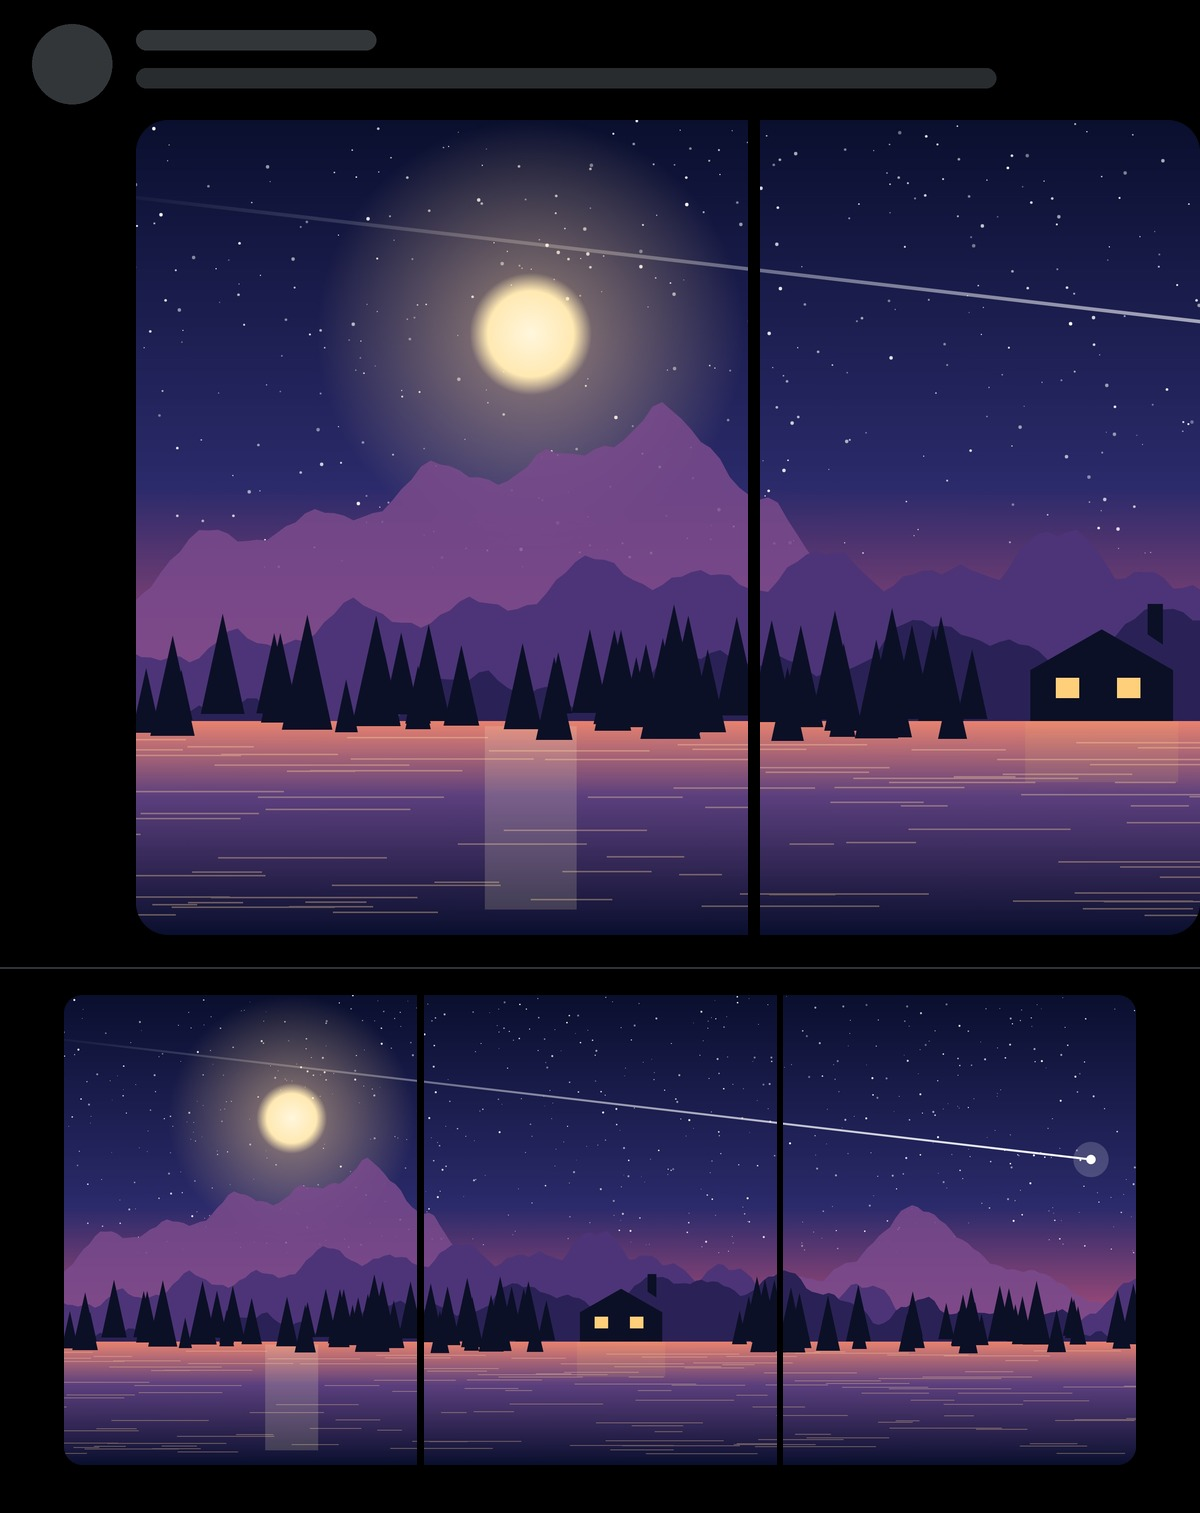
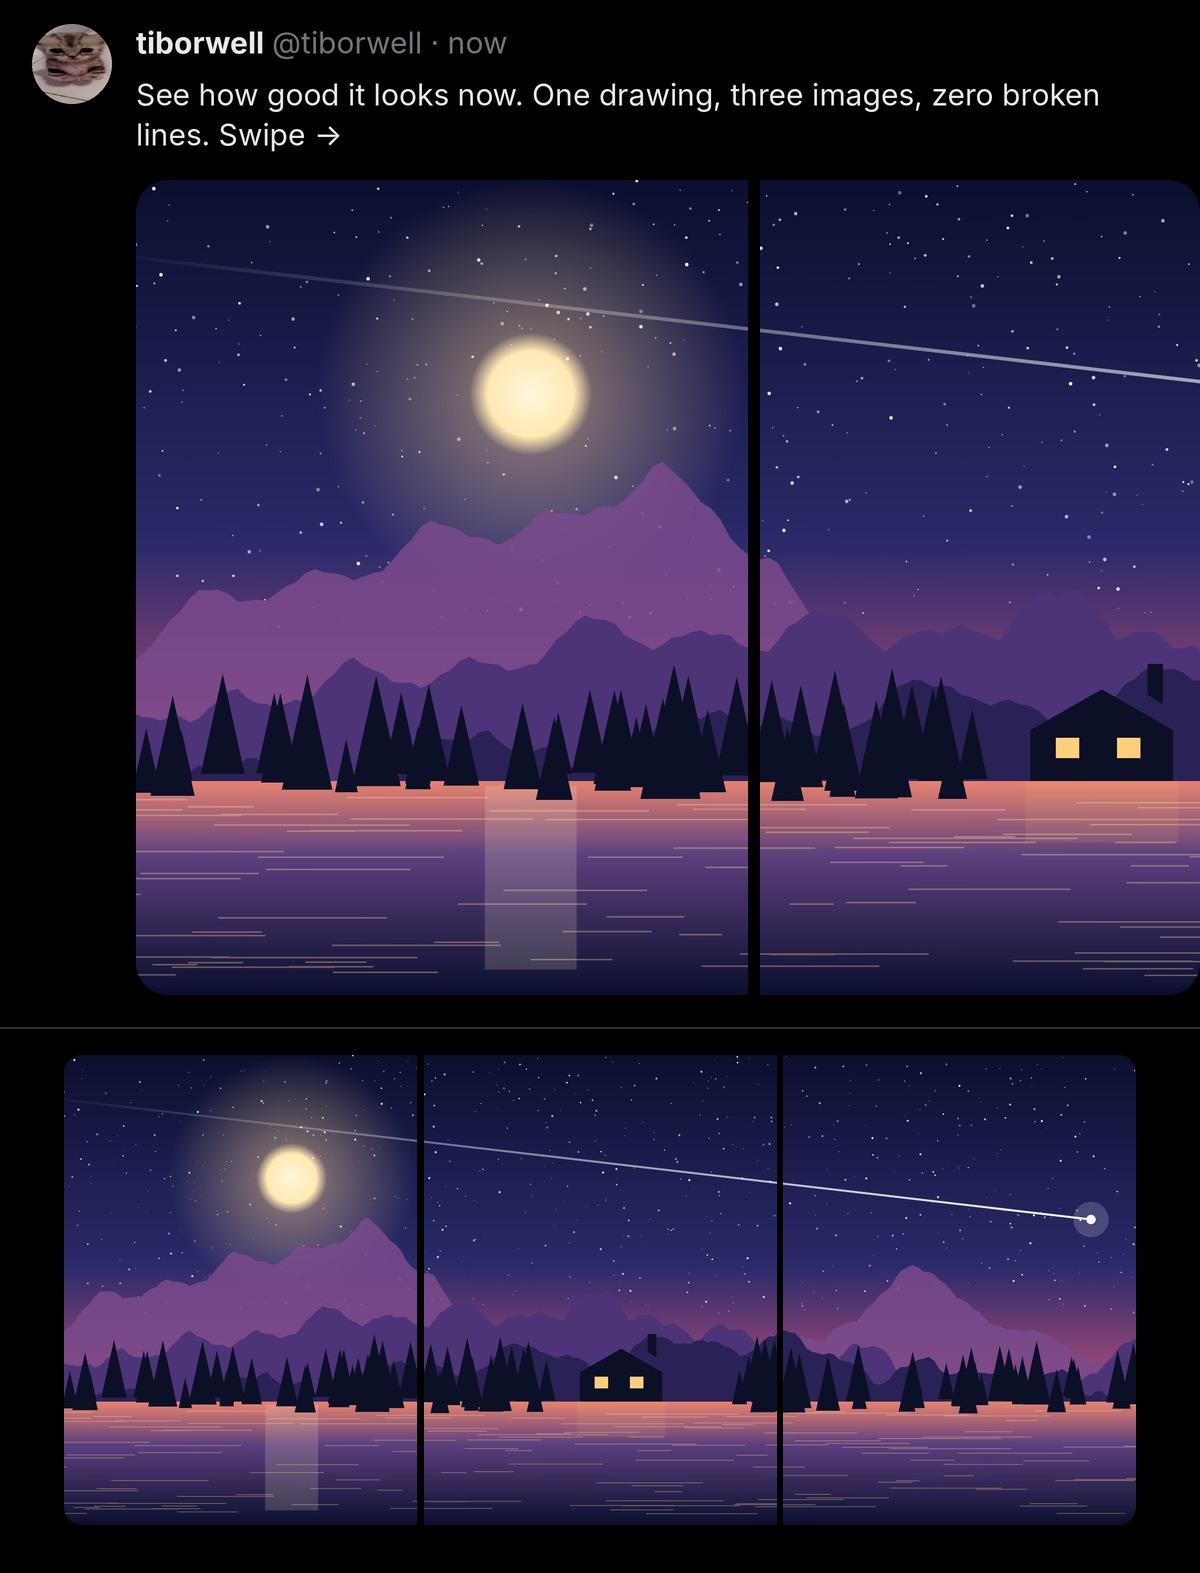
Mockups can show your real account and post text
Claude-Session: https://claude.ai/code/session_01YSttpyo9dWKAZLAN4dxtNv

diff --git a/skills/split-for-x/scripts/split.py b/skills/split-for-x/scripts/split.py
@@ -252,8 +252,47 @@ def rounded_mask(w, h, r, ss=4):
     return m.resize((w, h), Image.LANCZOS)
 
 
+ACCOUNT = {}   # filled from --name/--handle/--avatar/--text; empty = generic skeleton header
+
+
+def _font(size, bold=False):
+    names = (["Inter-Bold.otf", "/usr/share/fonts/opentype/inter/Inter-Bold.otf", "DejaVuSans-Bold.ttf", "Arial Bold.ttf"]
+             if bold else
+             ["Inter-Regular.otf", "/usr/share/fonts/opentype/inter/Inter-Regular.otf", "DejaVuSans.ttf", "Arial.ttf"])
+    for n in names:
+        try:
+            return ImageFont.truetype(n, size)
+        except Exception:
+            pass
+    return get_font(size)
+
+
+def _wrap(text, font, max_w):
+    lines = []
+    for para in text.split("\n"):
+        cur = ""
+        for word in para.split(" "):
+            t = (cur + " " + word).strip()
+            if font.getlength(t) <= max_w or not cur:
+                cur = t
+            else:
+                lines.append(cur)
+                cur = word
+        lines.append(cur)
+    return lines
+
+
+def account_header_h():
+    """CSS px height of the header when a real account is shown."""
+    f = _font(15)
+    lines = _wrap(ACCOUNT.get("text", ""), f, X2_COLUMN_PX) if ACCOUNT.get("text") else []
+    return 12 + 20 + 6 + 20 * len(lines) + 12
+
+
 def post_header(height_px):
-    """Generic post header: grey avatar + two grey rounded bars (supersampled)."""
+    """Post header: the user's account (avatar, name, handle, text) when given, else a grey skeleton."""
+    if ACCOUNT:
+        return account_header(height_px)
     ss = 2
     W, H = MOCK_W * ss, height_px * ss
     im = Image.new("RGB", (W, H), MOCK_BG)
@@ -264,6 +303,44 @@ def post_header(height_px):
     cx = MOCK_COL_LEFT * k
     d.rounded_rectangle([cx, 15 * k, cx + 120 * k, 25 * k], radius=5 * k, fill=MOCK_GREY)
     d.rounded_rectangle([cx, 34 * k, cx + 430 * k, 44 * k], radius=5 * k, fill=(41, 44, 47))
+    return im.resize((MOCK_W, height_px), Image.LANCZOS)
+
+
+def account_header(height_px):
+    ss = 2
+    W, H = MOCK_W * ss, height_px * ss
+    k = MOCK_SCALE * ss
+    im = Image.new("RGB", (W, H), MOCK_BG)
+    d = ImageDraw.Draw(im)
+    ax, ay, a = MOCK_PAD * k, 12 * k, MOCK_AVATAR * k
+    av = ACCOUNT.get("avatar")
+    if av:
+        try:
+            src = Image.open(av).convert("RGB")
+            s = min(src.size)
+            src = src.crop(((src.width - s) // 2, (src.height - s) // 2, (src.width + s) // 2, (src.height + s) // 2))
+            src = src.resize((a, a), Image.LANCZOS)
+            m = Image.new("L", (a, a), 0)
+            ImageDraw.Draw(m).ellipse([0, 0, a - 1, a - 1], fill=255)
+            im.paste(src, (ax, ay), m)
+        except Exception:
+            av = None
+    if not av:
+        d.ellipse([ax, ay, ax + a, ay + a], fill=MOCK_GREY)
+    cx = MOCK_COL_LEFT * k
+    fb, fr = _font(15 * k, bold=True), _font(15 * k)
+    name = ACCOUNT.get("name") or ACCOUNT.get("handle") or ""
+    y = 12 * k
+    d.text((cx, y), name, font=fb, fill=(231, 233, 234))
+    hx = cx + fb.getlength(name) + 4 * k
+    handle = ACCOUNT.get("handle")
+    meta = (f"@{handle.lstrip('@')} · now" if handle else "now")
+    d.text((hx, y), meta, font=fr, fill=(113, 118, 123))
+    y += 26 * k
+    if ACCOUNT.get("text"):
+        for line in _wrap(ACCOUNT["text"], fr, X2_COLUMN_PX * k):
+            d.text((cx, y), line, font=fr, fill=(231, 233, 234))
+            y += 20 * k
     return im.resize((MOCK_W, height_px), Image.LANCZOS)
 
 
@@ -371,12 +448,20 @@ source); --fit contain keeps the whole image and fills the rest with --bg.""")
     p.add_argument("--gap", default="auto", help="auto|none|<fraction of panel width>")
     p.add_argument("--format", choices=["jpg", "png"], default="jpg")
     p.add_argument("--max-side", type=int, default=DEFAULT_MAX_SIDE, help="max panel long side px")
+    p.add_argument("--name", help="mockup: display name to show instead of the grey skeleton")
+    p.add_argument("--handle", help="mockup: @handle")
+    p.add_argument("--avatar", help="mockup: path to a profile picture")
+    p.add_argument("--text", help="mockup: the post's text")
     return p
 
 
 def main(argv=None):
     ap = build_parser()
     a = ap.parse_args(argv)
+    global MOCK_HEADER_H
+    if a.name or a.handle or a.avatar or a.text:
+        ACCOUNT.update({k: v for k, v in (("name", a.name), ("handle", a.handle), ("avatar", a.avatar), ("text", a.text)) if v})
+        MOCK_HEADER_H = account_header_h()
     warns = []
     layout = a.layout
     img = load_image(a.image)

diff --git a/skills/split-for-x/SKILL.md b/skills/split-for-x/SKILL.md
@@ -12,6 +12,7 @@ Script: `scripts/split.py` next to this file (Python 3, `pip install pillow nump
 ```
 python split.py IMAGE -o OUT --layout x2|x-carousel|ig-carousel [--panels N] [--aspect 3:4]
                 [--fit cover|contain] [--focus X,Y] [--bg auto|blur|mirror|#hex] [--gap auto|none|F]
+                [--name NAME --handle HANDLE --avatar PIC --text "post text"]
 ```
 It writes `01.jpg`, `02.jpg`… plus `seams.jpg` (the source with the cut lines) and `mockup.jpg` (how the post will look).
 
@@ -55,7 +56,7 @@ Fix and re-run, two passes at most.
 
 ## 4. Deliver
 
-- Send the panels in order and the mockup.
+- Send the panels in order and the mockup. If the user gave their name, handle, profile picture or the post's text, pass them with `--name`, `--handle`, `--avatar` and `--text` so the mockup shows their real post; otherwise it shows a neutral placeholder.
 - Tell the user to upload them **in order 01, 02, 03… in a single post**, and to check the order in the composer before posting.
 - Write one short alt text per panel (what's in that slice). X lets you add it per image, and it helps reach and accessibility.
 - Mention that the gaps were measured on X desktop, and that re-running with `--gap none` fixes things if the phone shows a tiny offset.
